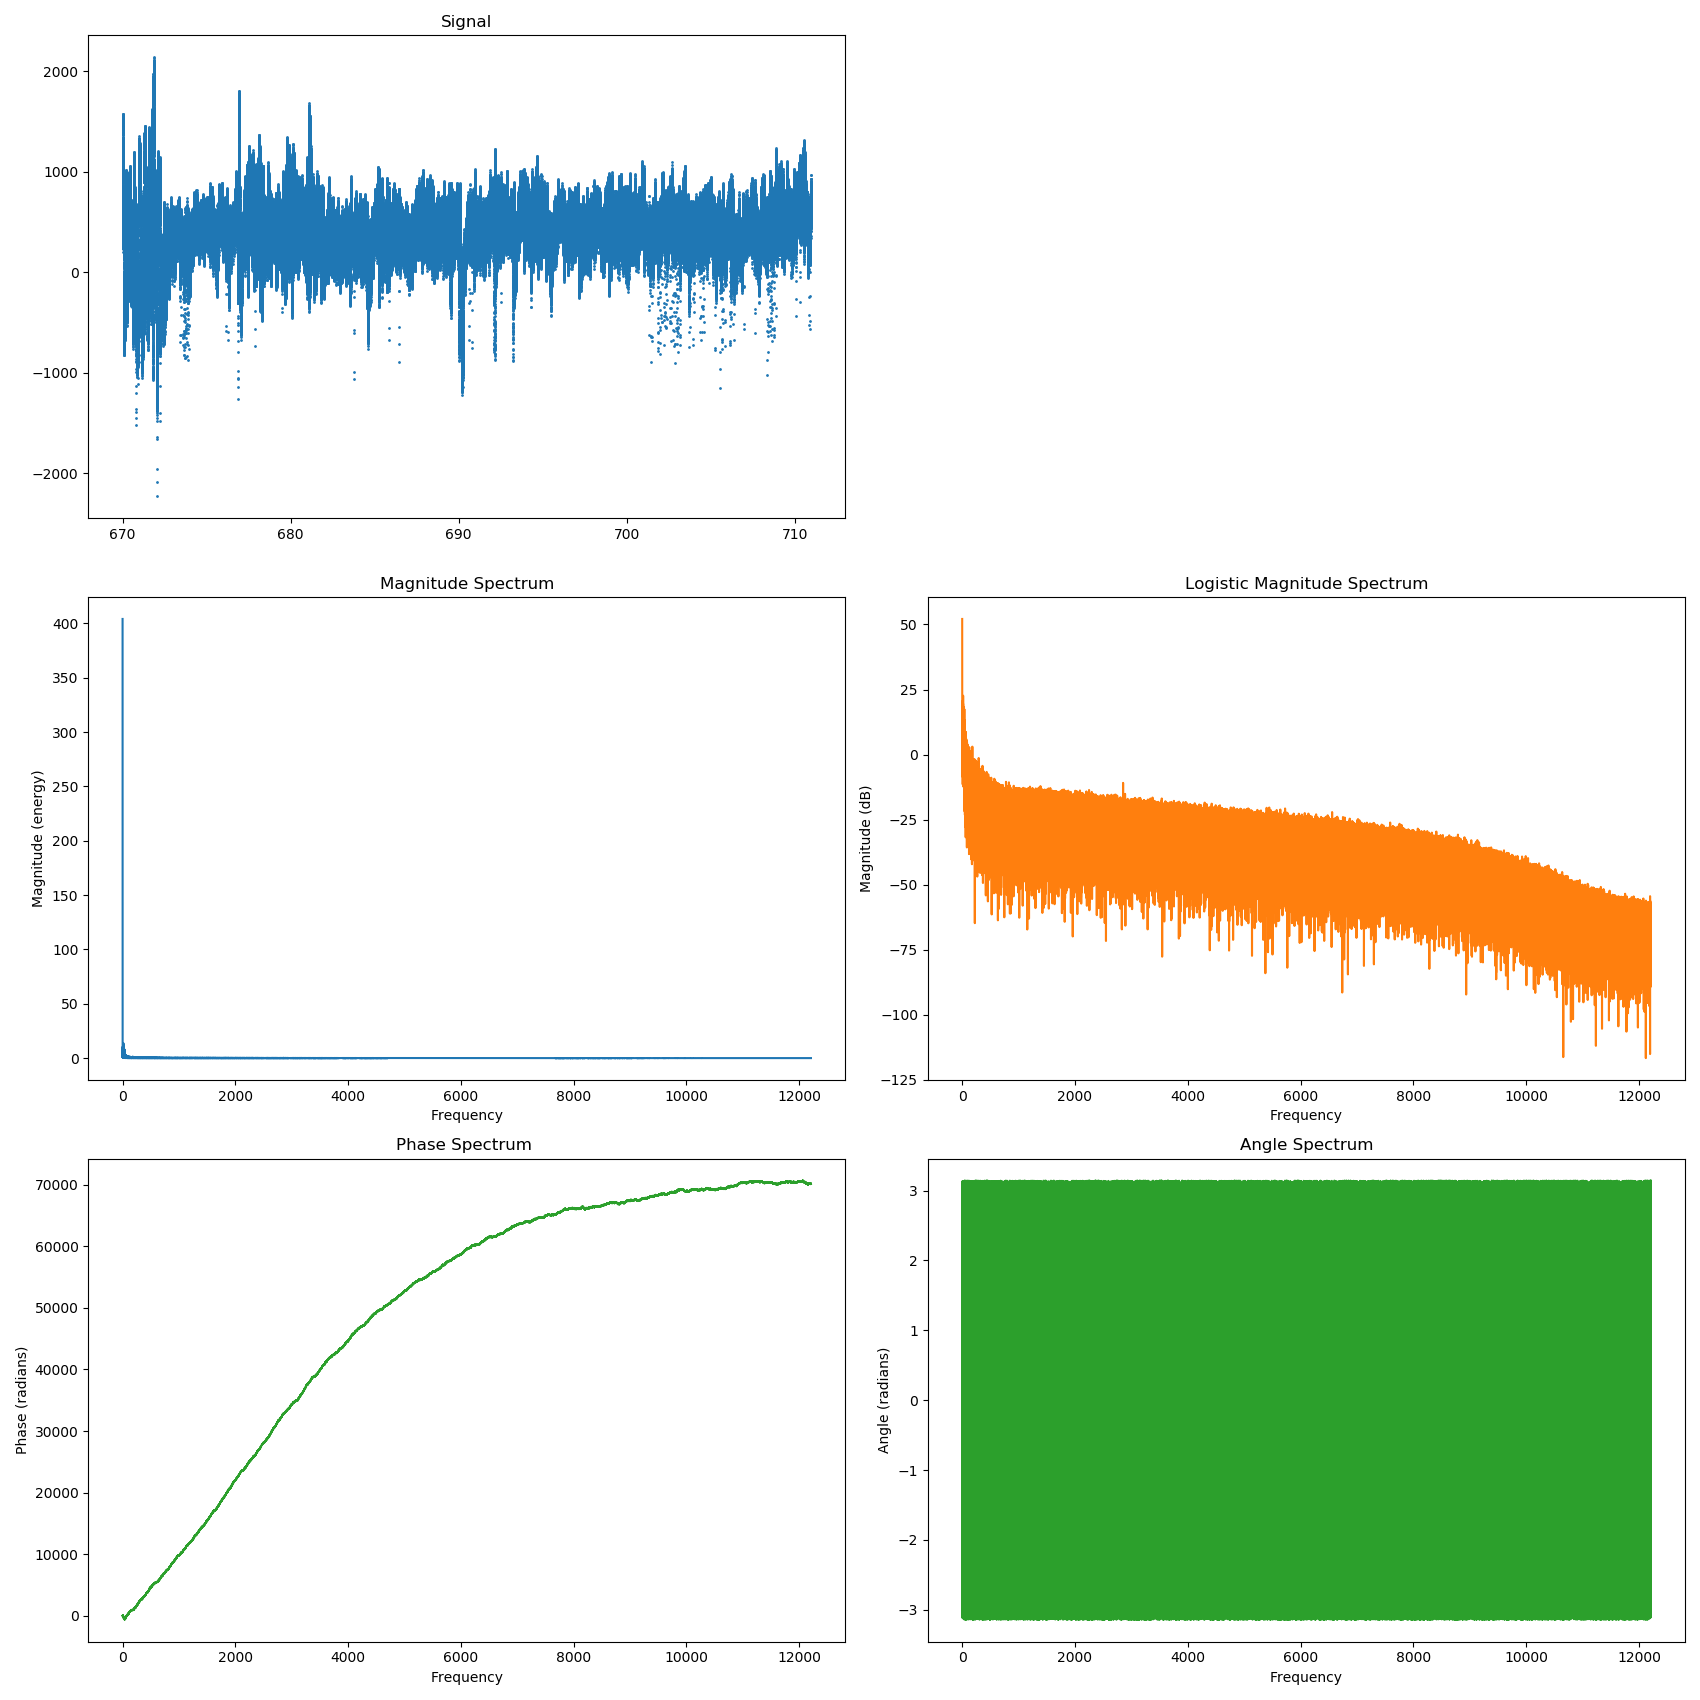
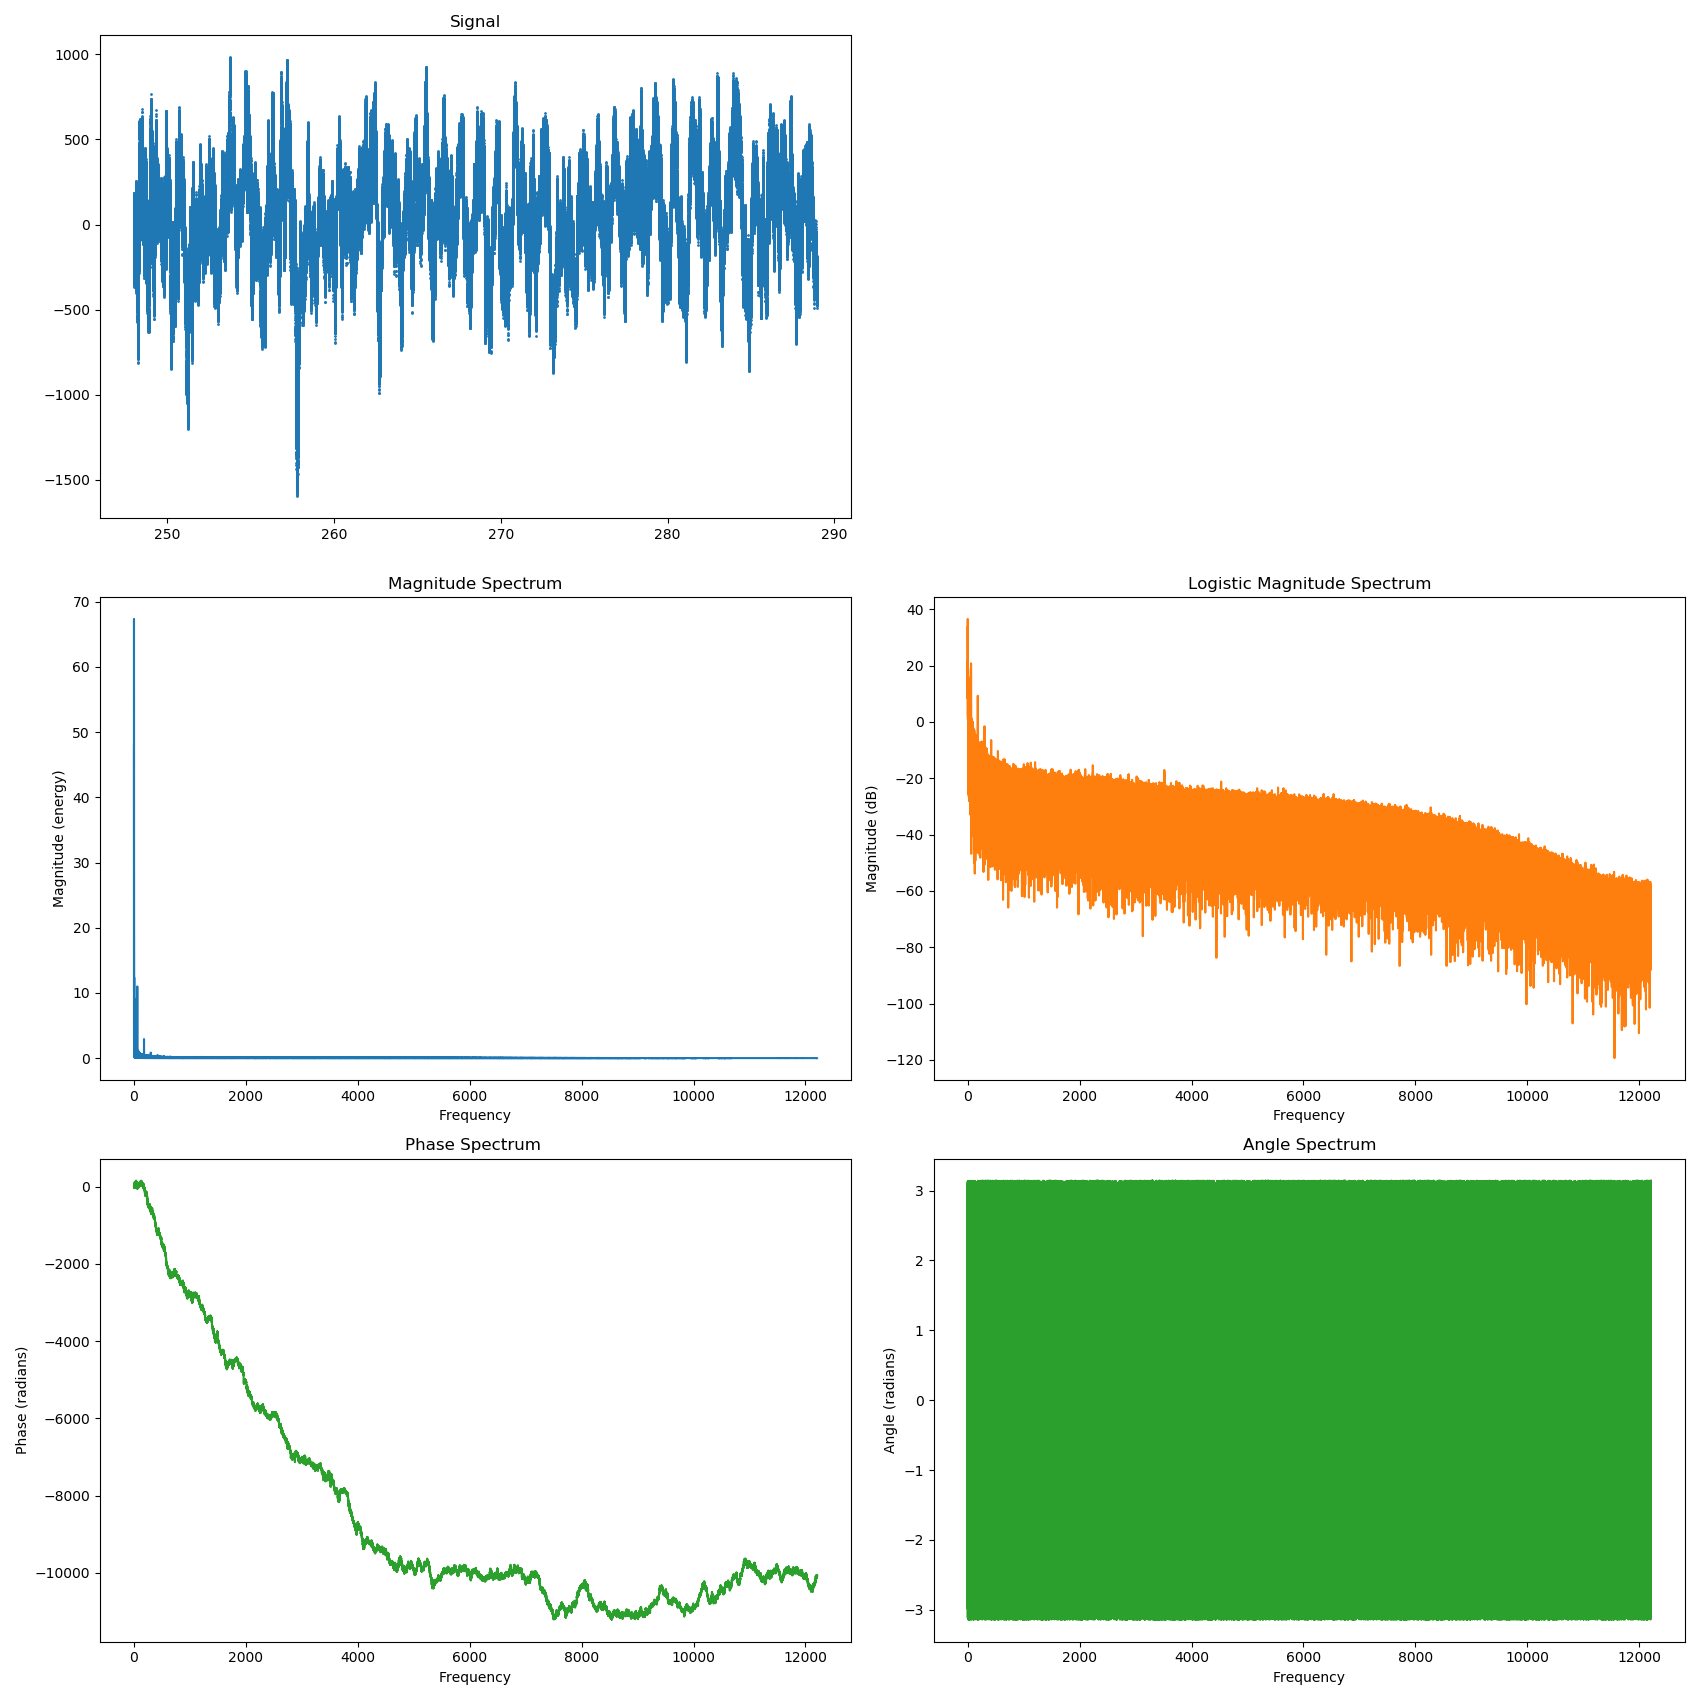
modified

diff --git a/Python_code/Linear_Regression/Cross_Sessions.py b/Python_code/Linear_Regression/Cross_Sessions.py
@@ -831,9 +831,9 @@ plot.title('Linear Regression position x prediction and ground truth')
 plot.xlabel('time (second)')
 plot.ylabel('x coordinate')
 axes = plot.gca()
-#axes.set_xlim([60, 890])
-plot.show()
-#plot.savefig('X_position_prediction.png' )
+axes.set_xlim([740, 760])
+#plot.show()
+plot.savefig('X_position_prediction.png' )
 
 plot.cla()
 plot.clf()
@@ -847,9 +847,9 @@ plot.title('Linear Regression position y prediction and ground truth')
 plot.xlabel('time (second)')
 plot.ylabel('y coordinate')
 axes = plot.gca()
-#axes.set_xlim([60, 890])
-plot.show()
-#plot.savefig('Y_position_prediction.png' )
+axes.set_xlim([740, 760])
+#plot.show()
+plot.savefig('Y_position_prediction.png' )
 
 plot.cla()
 plot.clf()
@@ -863,9 +863,9 @@ plot.title('Linear Regression position z prediction and ground truth')
 plot.xlabel('time (second)')
 plot.ylabel('z coordinate')
 axes = plot.gca()
-#axes.set_xlim([60, 890])
-plot.show()
-#plot.savefig('Z_position_prediction.png' )
+axes.set_xlim([740, 760])
+#plot.show()
+plot.savefig('Z_position_prediction.png' )
 
 plot.cla()
 plot.clf()
@@ -879,9 +879,9 @@ plot.title('Linear Regression velocity x prediction and ground truth')
 plot.xlabel('time (second)')
 plot.ylabel('x velocity')
 axes = plot.gca()
-#axes.set_xlim([60, 890])
-plot.show()
-#plot.savefig('x_velocity_predict.png' )
+axes.set_xlim([740, 760])
+#plot.show()
+plot.savefig('x_velocity_predict.png' )
 
 plot.cla()
 plot.clf()
@@ -895,9 +895,9 @@ plot.title('Linear Regression velocity y prediction and ground truth')
 plot.xlabel('time (second)')
 plot.ylabel('y velocity')
 axes = plot.gca()
-#axes.set_xlim([60, 890])
-plot.show()
-#plot.savefig('y_velocity_predict.png' )
+axes.set_xlim([740, 760])
+#plot.show()
+plot.savefig('y_velocity_predict.png' )
 
 plot.cla()
 plot.clf()
@@ -911,9 +911,9 @@ plot.title('Linear Regression velocity z prediction and ground truth')
 plot.xlabel('time (second)')
 plot.ylabel('z velocity')
 axes = plot.gca()
-#axes.set_xlim([60, 890])
-plot.show()
-#plot.savefig('z_velocity_predict.png' )
+axes.set_xlim([740, 760])
+#plot.show()
+plot.savefig('z_velocity_predict.png' )
 
 plot.cla()
 plot.clf()
@@ -927,9 +927,9 @@ plot.title('Linear Regression acceleration x prediction and ground truth')
 plot.xlabel('time (second)')
 plot.ylabel('x acceleration')
 axes = plot.gca()
-#axes.set_xlim([60, 890])
-plot.show()
-#plot.savefig('x_acceleration_predict.png' )
+axes.set_xlim([740, 760])
+#plot.show()
+plot.savefig('x_acceleration_predict.png' )
 
 plot.cla()
 plot.clf()
@@ -943,9 +943,9 @@ plot.title('Linear Regression acceleration y prediction and ground truth')
 plot.xlabel('time (second)')
 plot.ylabel('y acceleration')
 axes = plot.gca()
-#axes.set_xlim([60, 890])
-plot.show()
-#plot.savefig('y_acceleration_predict.png' )
+axes.set_xlim([740, 760])
+#plot.show()
+plot.savefig('y_acceleration_predict.png' )
 
 plot.cla()
 plot.clf()
@@ -959,7 +959,7 @@ plot.title('Linear Regression acceleration z prediction and ground truth')
 plot.xlabel('time (second)')
 plot.ylabel('z acceleration')
 axes = plot.gca()
-#axes.set_xlim([60, 890])
-plot.show()
-#plot.savefig('z_acceleration_predict.png' )
+axes.set_xlim([740, 760])
+#plot.show()
+plot.savefig('z_acceleration_predict.png' )
 

diff --git a/Python_code/Decision_Tree/random_forest.py b/Python_code/Decision_Tree/random_forest.py
@@ -754,9 +754,9 @@ for my_estimators in range (100,105,5):
         plot.xlabel('time (second)')
         plot.ylabel('x velocity')
         axes = plot.gca()
-        #axes.set_xlim([60, 890])
-        plot.show()
-        #plot.savefig('x_velocity_predict.png' )
+        axes.set_xlim([740, 760])
+        #plot.show()
+        plot.savefig('random_forest_x_velocity_predict.png' )
 
         plot.cla()
         plot.clf()
@@ -770,9 +770,9 @@ for my_estimators in range (100,105,5):
         plot.xlabel('time (second)')
         plot.ylabel('y velocity')
         axes = plot.gca()
-        #axes.set_xlim([60, 890])
-        plot.show()
-        #plot.savefig('y_velocity_predict.png' )
+        axes.set_xlim([740, 760])
+        #plot.show()
+        plot.savefig('random_forest_y_velocity_predict.png' )
 
         plot.cla()
         plot.clf()
@@ -786,9 +786,9 @@ for my_estimators in range (100,105,5):
         plot.xlabel('time (second)')
         plot.ylabel('x acceleration')
         axes = plot.gca()
-        #axes.set_xlim([60, 890])
-        plot.show()
-        #plot.savefig('x_acceleration_predict.png' )
+        axes.set_xlim([740, 760])
+        #plot.show()
+        plot.savefig('random_forest_x_acceleration_predict.png' )
 
         plot.cla()
         plot.clf()
@@ -802,9 +802,9 @@ for my_estimators in range (100,105,5):
         plot.xlabel('time (second)')
         plot.ylabel('y acceleration')
         axes = plot.gca()
-        #axes.set_xlim([60, 890])
-        plot.show()
-        #plot.savefig('y_acceleration_predict.png' )
+        axes.set_xlim([740, 760])
+        #plot.show()
+        plot.savefig('random_forest_y_acceleration_predict.png' )
 
         plot.cla()
         plot.clf()

diff --git a/Python_code/Signal_Processing/fourier_transform.py b/Python_code/Signal_Processing/fourier_transform.py
@@ -106,16 +106,15 @@ finger_y_coor=finger_y_coor[mat_time_interval[0][0]:mat_time_interval[0][-1]]
 for selected_channel in range(0, 96):    
 
     # ploting with fixed duration
-    '''
+    test_sampling_duration=1000000
     s=data[:test_sampling_duration, selected_channel]
     spike_signal=butter_bandpass_filter(s, 300, 3000, sampling_frequency, order=5)
     local_field_potential_signal=butter_lowpass_filter(s,3000, sampling_frequency/2)
 
     fig, axes = plt.subplots(nrows=3, ncols=2, figsize=(17, 17), dpi=100)
-    test_sampling_duration=1000000
-    print('Duration= ', timestamp[test_sampling_duration]-timestamp[0],'\n')
+    print('Duration= ', nwb_timestamp[test_sampling_duration]-nwb_timestamp[0],'\n')
 
-    axes[0,0].scatter(timestamp[:test_sampling_duration], s, s=1)
+    axes[0,0].scatter(nwb_timestamp[:test_sampling_duration], s, s=1)
     axes[0, 0].set_title('Signal')
 
     axes[1,0].set_title("Magnitude Spectrum")
@@ -137,14 +136,16 @@ for selected_channel in range(0, 96):
     #plt.show()
     plt.savefig('../../Figures/nwb_Data_Plot/spectrum_on_1_session.png')
 
-    #plt.clf()
-    #plt.close()
-    #plt.magnitude_spectrum(spike_signal, Fs=sampling_frequency)
+    plt.clf()
+    plt.close()
+    plt.title('Magnitude Spectrum in Channel '+str(selected_channel+1))
+    plt.magnitude_spectrum(spike_signal, Fs=sampling_frequency)
     #plt.show()
+    plt.savefig('../../Figures/nwb_Data_Plot/magnitude_spectrum_channel_'+str(selected_channel+1)+'.png')
 
     plt.clf()
     plt.close()
-    '''
+    
 
     new_data=data[ nwb_time_interval[0][0]:nwb_time_interval[0][-1], selected_channel]
 
